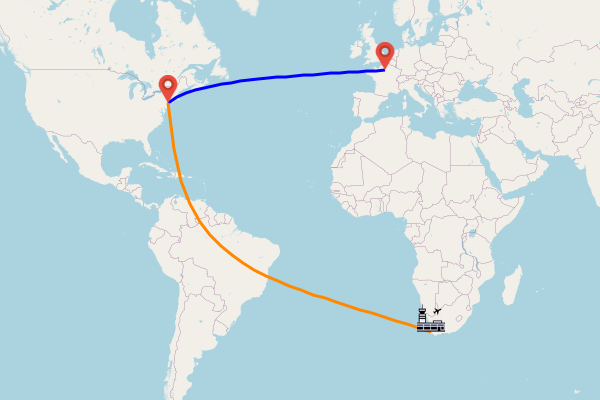
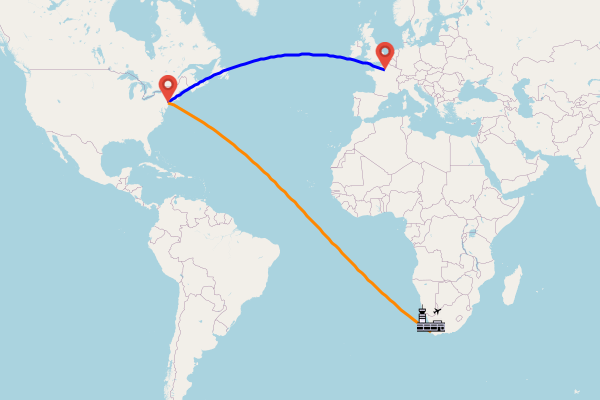
reversed lat,lon for geodesic line

diff --git a/src/staticmaps/utils.ts b/src/staticmaps/utils.ts
@@ -136,64 +136,48 @@ export function tileXYToQuadKey(x: number, y: number, z: number): string {
 }
 
 /**
- * Creates a geodesic (great circle) line between two coordinates.
- *
- * @param start - Starting coordinate as [latitude, longitude] in degrees.
- * @param end - Ending coordinate as [latitude, longitude] in degrees.
- * @param segments - Optional number of segments to divide the route into (default is 50).
- * @returns An array of coordinates [latitude, longitude] in degrees along the geodesic.
+ * Generate a geodesic line between two coordinates.
+ * @param start - [lat, lon]
+ * @param end - [lat, lon]
+ * @param segments - Number of interpolation points
+ * @returns Array of [lon, lat] points (for GeoJSON, static maps, etc.)
  */
 export function createGeodesicLine(
   start: [number, number],
   end: [number, number],
-  segments: number = 24
+  segments: number = 70
 ): [number, number][] {
-  // Helper functions for conversion
   const toRadians = (deg: number): number => (deg * Math.PI) / 180
   const toDegrees = (rad: number): number => (rad * 180) / Math.PI
 
-  // Convert start and end coordinates from degrees to radians
   const lat1 = toRadians(start[0])
   const lon1 = toRadians(start[1])
   const lat2 = toRadians(end[0])
   const lon2 = toRadians(end[1])
 
-  // Calculate the angular distance using the spherical law of cosines
   const delta = Math.acos(
     Math.sin(lat1) * Math.sin(lat2) +
-      Math.cos(lat1) * Math.cos(lat2) * Math.cos(lon2 - lon1)
+    Math.cos(lat1) * Math.cos(lat2) * Math.cos(lon2 - lon1)
   )
 
-  // If the two points are identical (or extremely close), return the endpoints.
-  if (delta === 0) {
-    return [start, end]
-  }
+  if (delta === 0) return [[start[1], start[0]], [end[1], end[0]]] // [lon, lat]
 
-  // Array to hold the geodesic points
-  const geodesicPoints: [number, number][] = []
+  const geodesic: [number, number][] = []
 
-  // Generate points along the great circle using spherical linear interpolation (slerp)
   for (let i = 0; i <= segments; i++) {
-    const f = i / segments // fraction along the route
-
-    // Interpolation coefficients
+    const f = i / segments
     const A = Math.sin((1 - f) * delta) / Math.sin(delta)
     const B = Math.sin(f * delta) / Math.sin(delta)
 
-    // Compute the interpolated point in Cartesian coordinates (on the unit sphere)
-    const x =
-      A * Math.cos(lat1) * Math.cos(lon1) + B * Math.cos(lat2) * Math.cos(lon2)
-    const y =
-      A * Math.cos(lat1) * Math.sin(lon1) + B * Math.cos(lat2) * Math.sin(lon2)
+    const x = A * Math.cos(lat1) * Math.cos(lon1) + B * Math.cos(lat2) * Math.cos(lon2)
+    const y = A * Math.cos(lat1) * Math.sin(lon1) + B * Math.cos(lat2) * Math.sin(lon2)
     const z = A * Math.sin(lat1) + B * Math.sin(lat2)
 
-    // Convert the Cartesian point back to latitude and longitude (in radians)
-    const latInterp = Math.atan2(z, Math.sqrt(x * x + y * y))
-    const lonInterp = Math.atan2(y, x)
+    const lat = Math.atan2(z, Math.sqrt(x * x + y * y))
+    const lon = Math.atan2(y, x)
 
-    // Convert back to degrees and store the result
-    geodesicPoints.push([toDegrees(latInterp), toDegrees(lonInterp)])
+    geodesic.push([toDegrees(lon), toDegrees(lat)]) // [lon, lat]
   }
 
-  return geodesicPoints
+  return geodesic
 }

diff --git a/src/staticmaps/polyline.ts b/src/staticmaps/polyline.ts
@@ -54,11 +54,10 @@ export default class Polyline {
     this.coords =
       options.coords.length === 2
         ? (() => {
+            const fixedStart: [number, number] = [this.coords[0][1], this.coords[0][0]]
+            const fixedEnd: [number, number] = [this.coords[1][1], this.coords[1][0]]
             createGeodesicLine(this.coords[0], this.coords[1])
-            const geodesicCoords = createGeodesicLine(
-              this.coords[0],
-              this.coords[1]
-            )
+            const geodesicCoords = createGeodesicLine(fixedStart, fixedEnd)
             return geodesicCoords
           })() // Immediately Invoked Function Expression (IIFE) to execute the logic
         : options.coords // Assuming this is already of type `number[][]`*/

diff --git a/src/controllers/staticmaps.controller.ts b/src/controllers/staticmaps.controller.ts
@@ -225,7 +225,7 @@ export function parseCoordinates(coords: any): Array<Array<number>> {
   return coords
     .map((coord) => {
       if (Array.isArray(coord) && coord.length === 2)
-        return [coord[1], coord[0]] // Swap to [longitude, latitude]
+        return [coord[0], coord[1]] // Swap to [longitude, latitude]
       if (typeof coord === "string") {
         const [lat, lon] = coord.split(",").map(Number)
         return [lon, lat] // Return [longitude, latitude]
